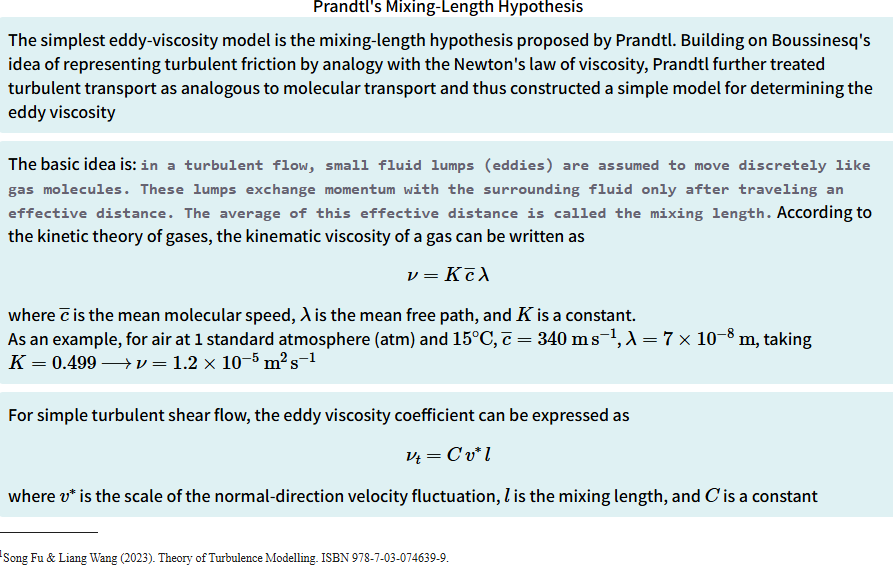
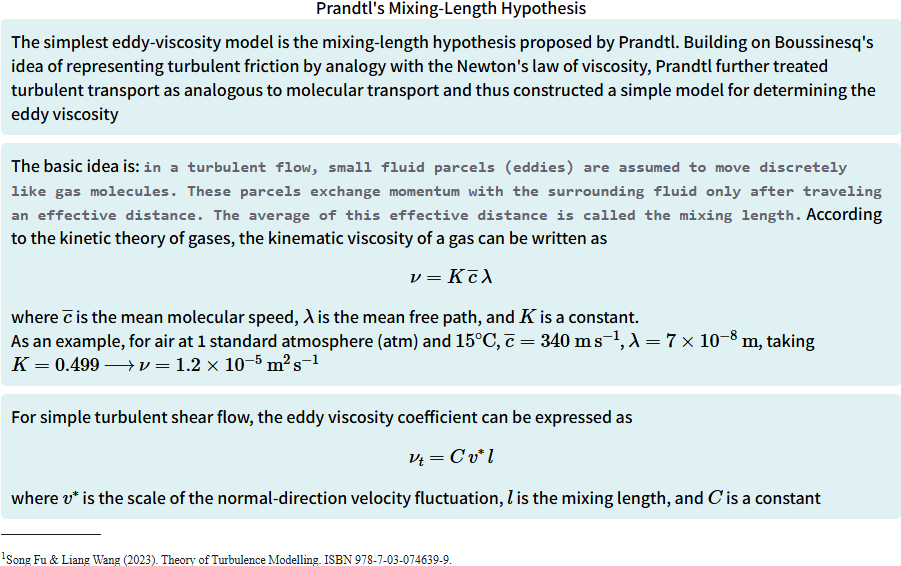
Update

diff --git a/Lecture7BSlide31.html b/Lecture7BSlide31.html
@@ -157,29 +157,42 @@ window.addEventListener('resize', scaleContainer);
         <div class="title">Prandtl's Mixing-Length Hypothesis</div>
 
 <div class="description">
-The simplest eddy-viscosity model is the mixing-length hypothesis proposed by Prandtl.
-Building on Boussinesq's idea of representing turbulent friction by analogy with the Newton's law of viscosity, Prandtl further treated turbulent transport as analogous to molecular transport and thus constructed a simple model for determining the eddy viscosity
+Now we explain the physical meaning of the mixing-length hypothesis.
+<div class="image-container">
+<p>
+Consider a statistically steady and statistically uniform turbulent shear flow in which the mean velocity has only a streamwise component $U$ that varies only with the normal coordinate $y$.
+At time $t$, a unit-volume fluid parcel located at $(x,y,z)$ has a streamwise momentum component $\rho\,\tilde{u}(x,y,z,t)$, 
+where $\tilde{u}$ denotes the streamwise velocity component associated with the irregular turbulent motion. Because of turbulence, this parcel moves to $(x+\Delta x,\; y+\Delta y,\; z+\Delta z)$ at time $t+\Delta t$, and during the interval $\Delta t$ it is assumed not to change its original momentum
+</p>
+<img src="Figures/Lecture7B_MixLengthTurbulenceMomentumTransport.png" alt="MixLengthTurbulenceMomentumTransport" style="max-width: 45%; height: auto; display: block; margin: 0 auto;">
+</div>
+At $t+\Delta t$ the <span class="sql">momentum defect</span> of this parcel relative to the surrounding fluid is
+$$
+\Delta m \;=\; \rho\,\tilde{u}(x+\Delta x,\; y+\Delta y,\; z+\Delta z,\; t+\Delta t)
+\;-\;\rho\,\tilde{u}(x,\; y,\; z,\; t)
+$$
 </div>
 
 <div class="description">
-The basic idea is:
-<span class="sql">in a turbulent flow, small fluid parcels (eddies) are assumed to move discretely like gas molecules. These parcels exchange momentum with the surrounding fluid only after traveling an effective distance. The average of this effective distance is called the mixing length.</span>
-According to the kinetic theory of gases, the kinematic viscosity of a gas can be written as
+Decomposing the instantaneous velocity into its mean and fluctuating parts, and neglecting the momentum fluctuation compared with the mean momentum obtain
 $$
-\nu = K\,\overline{c}\,\lambda
+\Delta m \;=\; \rho\,U(y+\Delta y)\;-\;\rho\,U(y)
+\;\approx\; \rho\,\Delta y\,\frac{\partial U}{\partial y}
 $$
-where $\overline{c}$ is the mean molecular speed, $\lambda$ is the mean free path, and $K$ is a constant.<br>
-As an example, for air at 1 standard atmosphere (atm) and $15^\circ\mathrm{C}$, $\overline{c}=340~\mathrm{m\,s^{-1}}$, $\lambda=7\times10^{-8}~\mathrm{m}$, taking $K=0.499$ \(\longrightarrow\) $\nu=1.2\times10^{-5}~\mathrm{m^2\,s^{-1}}$
 </div>
 
-<div class="description">
-For simple turbulent shear flow, the eddy viscosity coefficient can be expressed as
+<p>The volumetric flux across a unit area in the normal direction caused by the turbulent fluctuation is $v$. Therefore, per unit time, the statistical average of the streamwise momentum defect transported by turbulence through a unit area at $y+\Delta y$, namely the Reynolds shear-stress component
+    $$
+-\rho\,\overline{uv}
+  \;=\;\rho\,\overline{\,v\,\Delta y\,}\,\frac{\partial U}{\partial y}
 $$
-\nu_t = C\,v^{*}\,l
+where the overbar denotes an ensemble average over all fluid parcels that, starting from the position $y$, undergo turbulent displacements in the wall-normal direction. 
+Let the mean of this distance be the mixing length $\ell$, and let $v^{*}=(\overline{v^{2}})^{1/2}$
 $$
-where $v^{*}$ is the scale of the normal-direction velocity fluctuation, $l$ is the mixing length, and $C$ is a constant
-</div>
-
+-\rho\,\overline{u\,v}=C\,\rho\,v^{*}\,\ell\,\frac{\partial U}{\partial y}
+$$
+where $C$ is a constant. Thus we recover the eddy-viscosity coefficient $\nu_t=C\,v^{*}\ell$
+</p>
 
 
         <!-- Footnote Section -->
@@ -192,9 +205,9 @@ where $v^{*}$ is the scale of the normal-direction velocity fluctuation, $l$ is 
 
 
         <!-- Left Arrow to go back to Slide  -->
-        <a href="Lecture7BSlide29.html" class="nav-button left">&#9664;</a>
+        <a href="Lecture7BSlide30.html" class="nav-button left">&#9664;</a>
         <!-- Right Arrow to go to Slide  -->
-        <a href="Lecture7BSlide31.html" class="nav-button right">&#9654;</a>
+        <a href="Lecture7BSlide32.html" class="nav-button right">&#9654;</a>
     </div>
 </body>
 </html>

diff --git a/Lecture7BOverview.html b/Lecture7BOverview.html
@@ -313,6 +313,21 @@
                 <img src="Figures/Lecture7BSlide30.png" alt="Slide 30">
             </div>
         </a>
+        <a href="Lecture7BSlide31.html" class="slide-link">
+            <div class="slide-box">
+                <img src="Figures/Lecture7BSlide31.png" alt="Slide 31">
+            </div>
+        </a>
+        <a href="Lecture7BSlide32.html" class="slide-link">
+            <div class="slide-box">
+                <img src="Figures/Lecture7BSlide32.png" alt="Slide 32">
+            </div>
+        </a>
+        <a href="Lecture7BSlide33.html" class="slide-link">
+            <div class="slide-box">
+                <img src="Figures/Lecture7BSlide33.png" alt="Slide 33">
+            </div>
+        </a>
     </div>
 
 </body>
